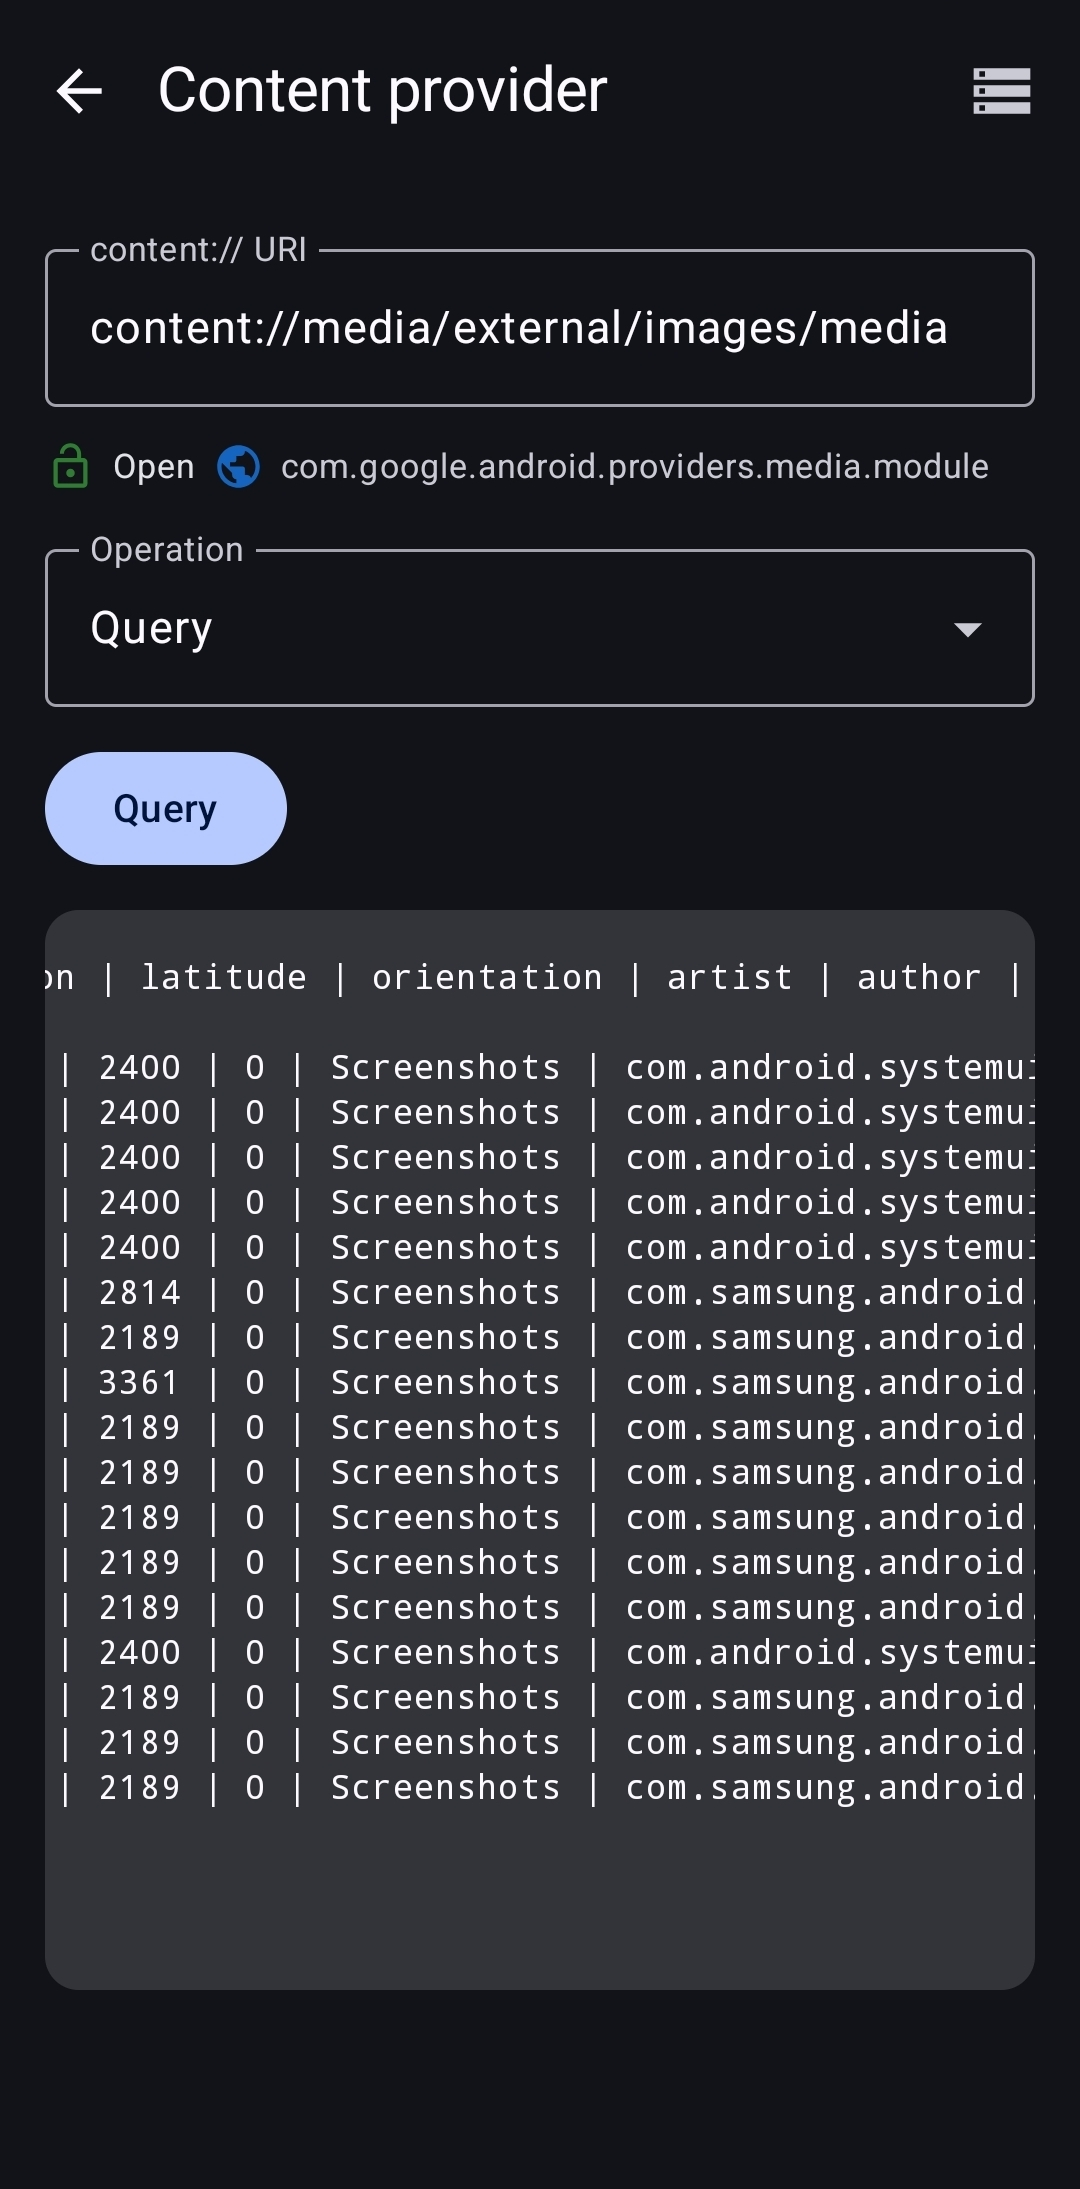
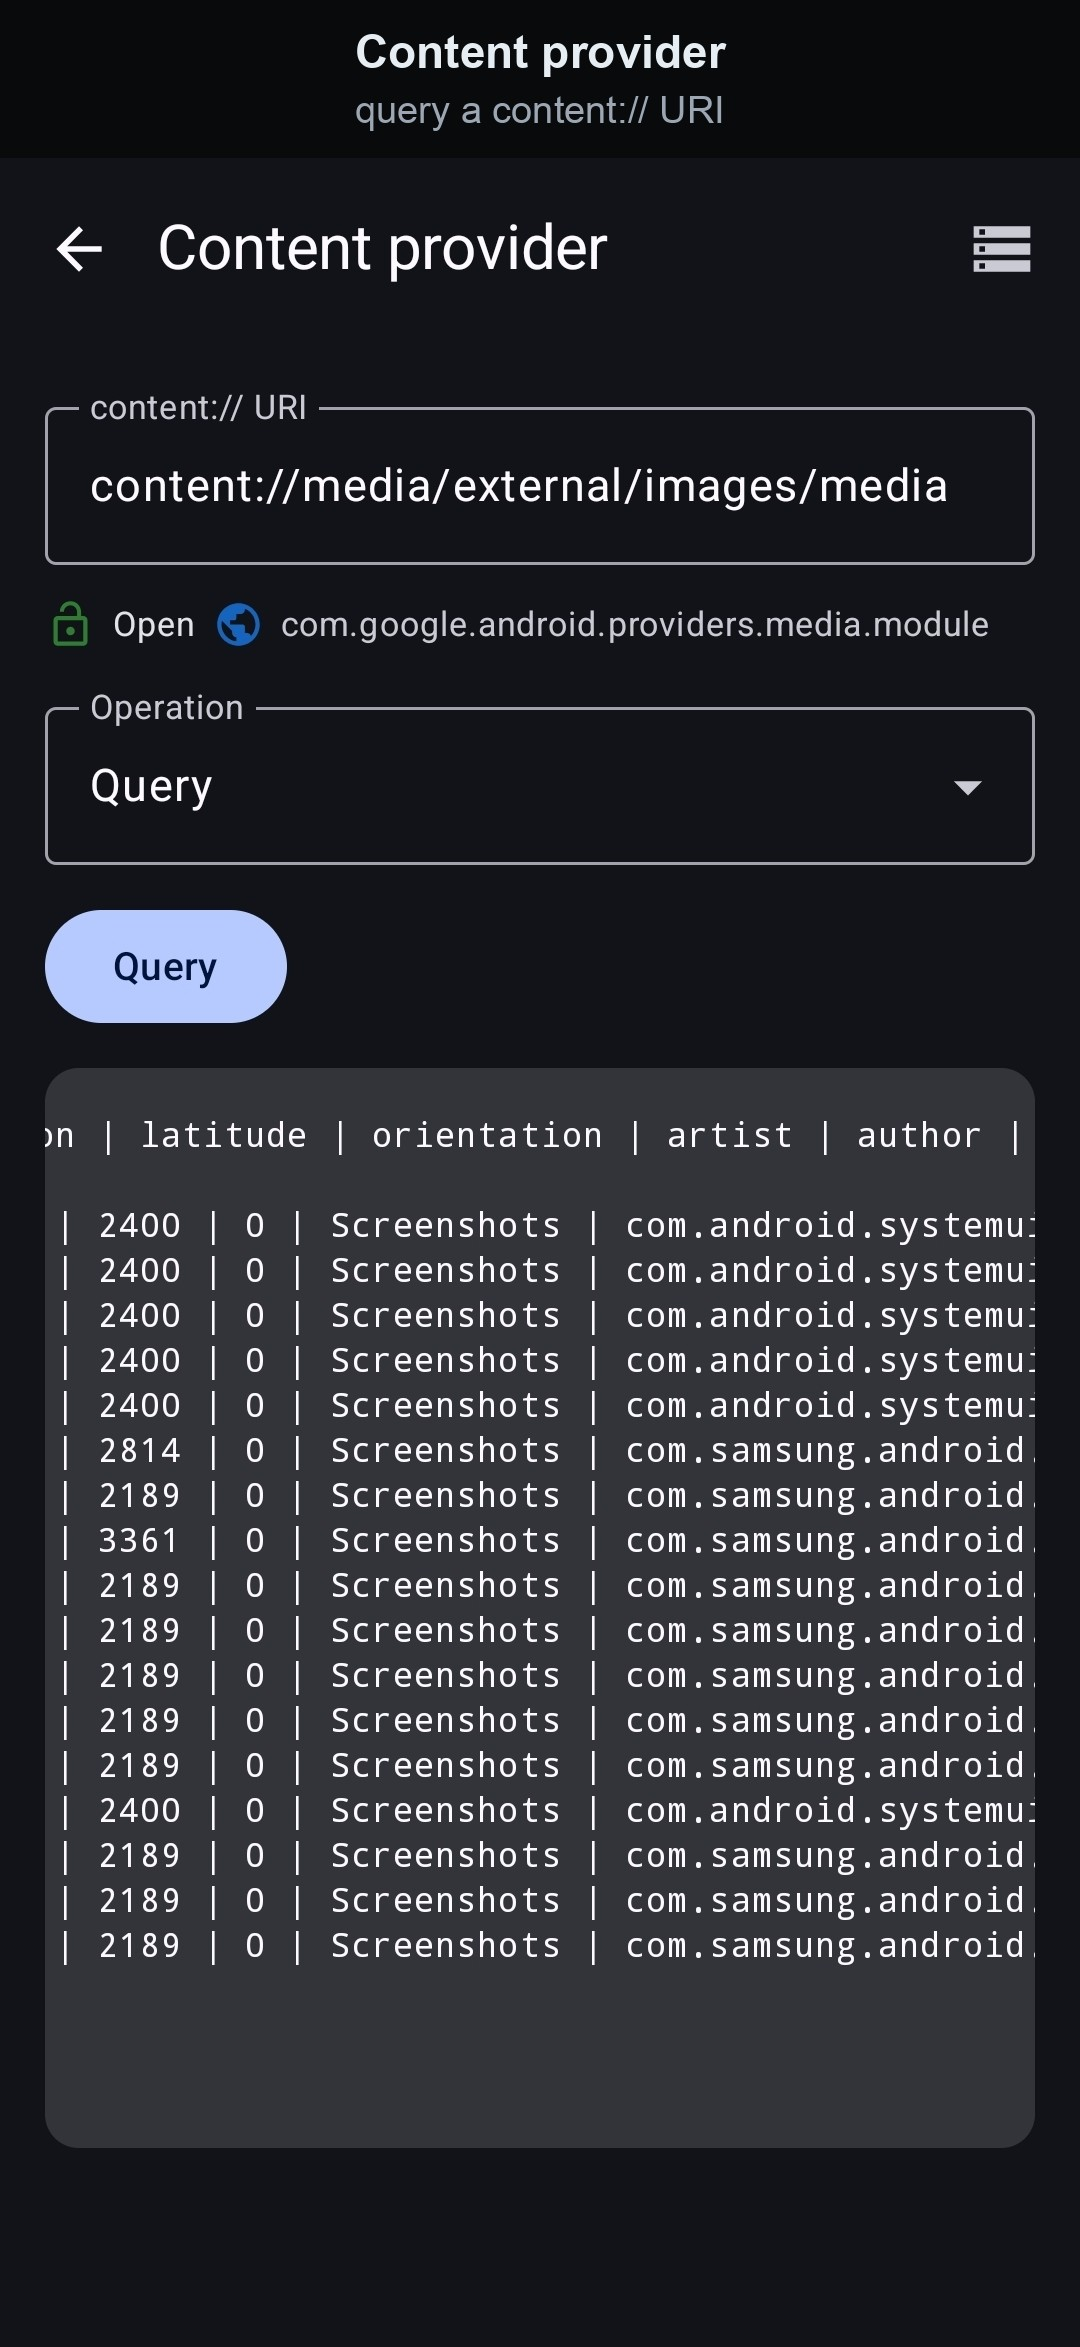
better readme

diff --git a/docs/screenshots/generate_captions.py b/docs/screenshots/generate_captions.py
@@ -1,0 +1,104 @@
+#!/usr/bin/env python3
+"""Generate captioned screenshots for the README.
+
+Each image in ``raw/`` listed in ``CAPTIONS`` gets a title band rendered on
+top (bold title + muted subtitle) and is written next to this script, where
+the README references it. The band colour matches the app's dark UI so it
+reads as a titled card. Editing a caption here and re-running regenerates the
+images — the originals in ``raw/`` are never touched.
+
+Usage:
+    python3 -m venv .venv && .venv/bin/pip install Pillow
+    .venv/bin/python generate_captions.py
+"""
+
+from pathlib import Path
+
+from PIL import Image, ImageDraw, ImageFont
+
+HERE = Path(__file__).resolve().parent
+RAW = HERE / "raw"
+
+# filename (in raw/) -> (bold title, muted subtitle)
+CAPTIONS = {
+    "main.jpg": ("Main screen", "intent preview & launcher"),
+    "package_explorer.jpg": ("Package explorer", "installed apps"),
+    "package_explorer_components.jpg": ("App components", "exported & permissions"),
+    "intent_editor.jpg": ("Intent editor", "typed extras & flags"),
+    "content_provider_query.jpg": ("Content provider", "query a content:// URI"),
+    "resource_browser_images.jpg": ("Resource browser", "images & XML"),
+}
+
+# Band styling (tuned for ~1080px-wide phone screenshots).
+BG = "#080a0c"
+TITLE_COLOR = "#e6edf3"
+SUB_COLOR = "#9da7b3"
+TITLE_SIZE = 46
+SUB_SIZE = 38
+PAD_Y = 26
+GAP = 10
+JPEG_QUALITY = 90
+
+# Font lookup: macOS first, then common Linux paths.
+TITLE_FONT_CANDIDATES = [
+    "/System/Library/Fonts/Supplemental/Arial Bold.ttf",
+    "/usr/share/fonts/truetype/dejavu/DejaVuSans-Bold.ttf",
+]
+SUB_FONT_CANDIDATES = [
+    "/System/Library/Fonts/Supplemental/Arial.ttf",
+    "/usr/share/fonts/truetype/dejavu/DejaVuSans.ttf",
+]
+
+
+def load_font(candidates, size):
+    for path in candidates:
+        if Path(path).exists():
+            return ImageFont.truetype(path, size)
+    raise SystemExit(
+        "No usable TTF font found. Tried:\n  " + "\n  ".join(candidates)
+    )
+
+
+def line_height(font):
+    # ascent + descent is fixed for a given font + size, independent of which
+    # glyphs a particular string uses, so every band ends up the same height.
+    ascent, descent = font.getmetrics()
+    return ascent + descent
+
+
+def draw_centered(draw, text, font, color, width, top):
+    # anchor="ma" -> horizontally centred, vertically aligned to the ascender,
+    # so the text top sits exactly at `top` regardless of descenders.
+    draw.text((width / 2, top), text, font=font, fill=color, anchor="ma")
+
+
+def caption(src: Path, title: str, subtitle: str, dest: Path):
+    img = Image.open(src).convert("RGB")
+    width, height = img.size
+
+    title_font = load_font(TITLE_FONT_CANDIDATES, TITLE_SIZE)
+    sub_font = load_font(SUB_FONT_CANDIDATES, SUB_SIZE)
+
+    title_h = line_height(title_font)
+    sub_h = line_height(sub_font)
+    band_h = PAD_Y + title_h + GAP + sub_h + PAD_Y
+
+    canvas = Image.new("RGB", (width, band_h + height), BG)
+    draw = ImageDraw.Draw(canvas)
+    draw_centered(draw, title, title_font, TITLE_COLOR, width, PAD_Y)
+    draw_centered(draw, subtitle, sub_font, SUB_COLOR, width, PAD_Y + title_h + GAP)
+    canvas.paste(img, (0, band_h))
+    canvas.save(dest, quality=JPEG_QUALITY)
+    print(f"wrote {dest.name} ({canvas.size[0]}x{canvas.size[1]})")
+
+
+def main():
+    for name, (title, subtitle) in CAPTIONS.items():
+        src = RAW / name
+        if not src.exists():
+            raise SystemExit(f"missing source: {src}")
+        caption(src, title, subtitle, HERE / name)
+
+
+if __name__ == "__main__":
+    main()

diff --git a/README.md b/README.md
@@ -21,9 +21,14 @@ The app is largely a reconstruction of the Intentions app from 2012, whose code 
 
 ### Screenshots
 
-| Main screen | Package explorer | App components | Intent editor | Content provider | Resource browser |
-| --- | --- | --- | --- | --- | --- |
-| <a href="docs/screenshots/main.jpg"><img src="docs/screenshots/main.jpg" alt="Main screen, intent preview and launcher screenshot" width="120"></a> | <a href="docs/screenshots/package_explorer.jpg"><img src="docs/screenshots/package_explorer.jpg" alt="Package explorer apps list screenshot" width="120"></a> | <a href="docs/screenshots/package_explorer_components.jpg"><img src="docs/screenshots/package_explorer_components.jpg" alt="Package explorer app components list screenshot" width="120"></a> | <a href="docs/screenshots/intent_editor.jpg"><img src="docs/screenshots/intent_editor.jpg" alt="Intent editor screenshot" width="120"></a> | <a href="docs/screenshots/content_provider_query.jpg"><img src="docs/screenshots/content_provider_query.jpg" alt="Content provider query screenshot" width="120"></a> | <a href="docs/screenshots/resource_browser_images.jpg"><img src="docs/screenshots/resource_browser_images.jpg" alt="Resource browser screenshot" width="120"></a> |
+<p align="center">
+  <a href="docs/screenshots/raw/main.jpg"><img src="docs/screenshots/main.jpg" alt="Main screen — intent preview and launcher screenshot" width="32%"></a>
+  <a href="docs/screenshots/raw/package_explorer.jpg"><img src="docs/screenshots/package_explorer.jpg" alt="Package explorer — installed apps list screenshot" width="32%"></a>
+  <a href="docs/screenshots/raw/package_explorer_components.jpg"><img src="docs/screenshots/package_explorer_components.jpg" alt="App components — exported and permissions screenshot" width="32%"></a>
+  <a href="docs/screenshots/raw/intent_editor.jpg"><img src="docs/screenshots/intent_editor.jpg" alt="Intent editor — typed extras and flags screenshot" width="32%"></a>
+  <a href="docs/screenshots/raw/content_provider_query.jpg"><img src="docs/screenshots/content_provider_query.jpg" alt="Content provider — query a content URI screenshot" width="32%"></a>
+  <a href="docs/screenshots/raw/resource_browser_images.jpg"><img src="docs/screenshots/resource_browser_images.jpg" alt="Resource browser — images and XML screenshot" width="32%"></a>
+</p>
 
 ### Build an intent
 - **Intent editor** — set the component, action, data URI + MIME type, categories, extras
@@ -93,7 +98,12 @@ services is no longer allowed (Android 8+), so the app opens the system App-Info
 page instead.
 
 ## Install
-A debug build can be installed with:
+Grab the latest **`intentions-release.apk`** from the
+[Releases page](https://github.com/dmatscheko/intentions-android/releases/latest)
+and install it on your device — no build required. You may need to allow
+installing from unknown sources.
+
+Prefer to build it yourself? A debug build can be installed with:
 
 ```sh
 ./gradlew :app:installDebug
